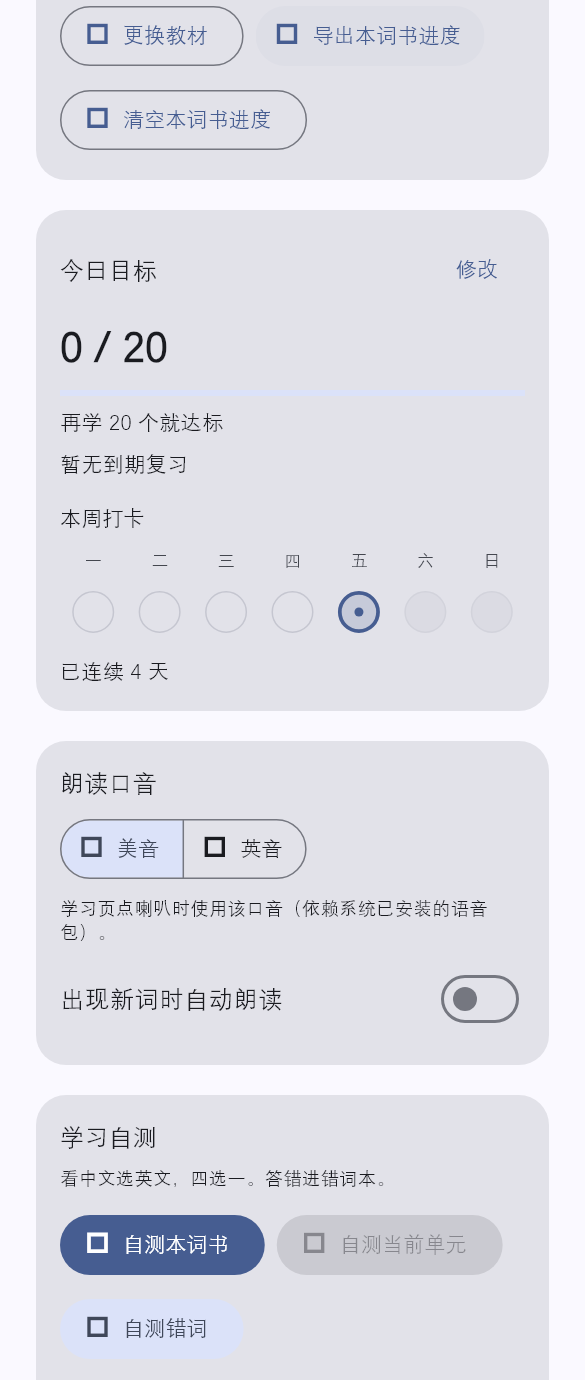
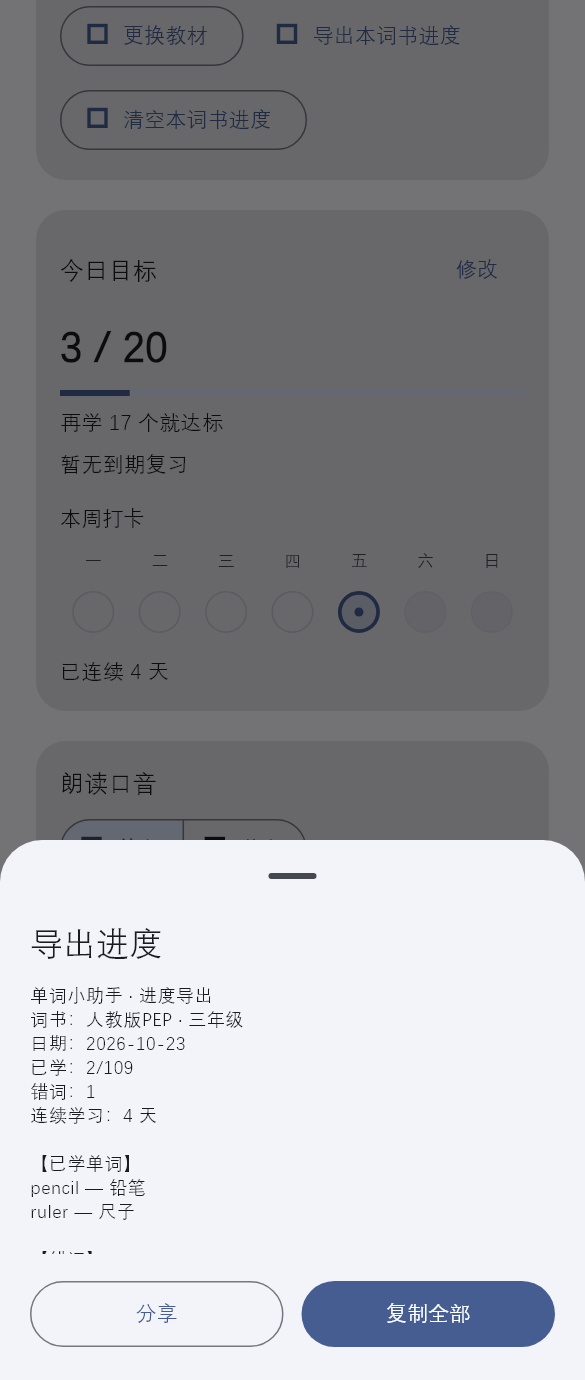
fix: R28 补交导出预览 sheet 截图（含复制 SnackBar）
Shot root 改为包住 navigator overlay；去掉预览 monospace 以免 CJK 方块；
sheet 可滚动并 settle 后再截。requirements 改回待 UI 验收。

diff --git a/test/r28_export_shot_test.dart b/test/r28_export_shot_test.dart
@@ -31,12 +31,22 @@ void main() {
     if (update) await loadCjkFont();
   });
 
-  Future<void> capture(
+  void mockClipboard() {
+    TestDefaultBinaryMessengerBinding.instance.defaultBinaryMessenger.setMockMethodCallHandler(
+      SystemChannels.platform,
+      (call) async {
+        if (call.method == 'Clipboard.setData') return null;
+        if (call.method == 'Clipboard.getData') return <String, dynamic>{'text': ''};
+        return null;
+      },
+    );
+  }
+
+  Future<void> pumpMe(
     WidgetTester tester, {
     required Size size,
     required ThemeData theme,
     required String outName,
-    required bool openSheet,
   }) async {
     SharedPreferences.setMockInitialValues({
       'selected_book_id': 'pep-ps-3',
@@ -45,6 +55,7 @@ void main() {
       'streak_days': 4,
       'daily_goal': 20,
       'today_count': 3,
+      'today_date': ProgressStore.dateKey(DateTime.now()),
     });
     tester.view.physicalSize = size;
     tester.view.devicePixelRatio = 1.0;
@@ -55,25 +66,27 @@ void main() {
     await tester.pump();
 
     final store = await ProgressStore.open();
+    // builder wraps navigator (incl. modal routes) inside RepaintBoundary
     await tester.pumpWidget(
       MaterialApp(
         key: ValueKey('app_$outName'),
         theme: withCjk(theme),
-        home: RepaintBoundary(
+        builder: (context, child) => RepaintBoundary(
           key: const ValueKey('shot_root'),
-          child: Scaffold(
-            body: MeScreen(
-              key: ValueKey('me_$outName'),
-              store: store,
-              repo: WordbookRepository(),
-              onRefresh: () {},
-              onChangeBook: () {},
-              onReviewWrong: () {},
-              onReviewWrongCurrentUnit: () {},
-              onQuizBook: () {},
-              onQuizUnit: () {},
-              onQuizWrong: () {},
-            ),
+          child: child ?? const SizedBox.shrink(),
+        ),
+        home: Scaffold(
+          body: MeScreen(
+            key: ValueKey('me_$outName'),
+            store: store,
+            repo: WordbookRepository(),
+            onRefresh: () {},
+            onChangeBook: () {},
+            onReviewWrong: () {},
+            onReviewWrongCurrentUnit: () {},
+            onQuizBook: () {},
+            onQuizUnit: () {},
+            onQuizWrong: () {},
           ),
         ),
       ),
@@ -84,14 +97,9 @@ void main() {
     expect(find.byKey(const ValueKey('export_progress')), findsOneWidget);
     await tester.ensureVisible(find.byKey(const ValueKey('export_progress')));
     await tester.pump();
+  }
 
-    if (openSheet) {
-      await tester.tap(find.byKey(const ValueKey('export_progress')));
-      await tester.pump();
-      await tester.pump(const Duration(milliseconds: 500));
-      expect(find.text('导出进度'), findsOneWidget);
-    }
-
+  Future<void> saveShot(WidgetTester tester, String outName) async {
     await tester.runAsync(() async {
       final boundary =
           tester.renderObject(find.byKey(const ValueKey('shot_root'))) as RenderRepaintBoundary;
@@ -103,16 +111,65 @@ void main() {
     });
   }
 
+  Future<void> openExportSheet(WidgetTester tester) async {
+    await tester.tap(find.byKey(const ValueKey('export_progress')));
+    await tester.pump(); // start async load
+    // wait until sheet title appears, then settle animation
+    for (var i = 0; i < 60; i++) {
+      await tester.pump(const Duration(milliseconds: 50));
+      if (find.text('导出进度').evaluate().isNotEmpty) break;
+    }
+    expect(find.text('导出进度'), findsOneWidget);
+    await tester.pumpAndSettle(const Duration(milliseconds: 100));
+    expect(find.byKey(const ValueKey('export_preview')), findsOneWidget);
+    expect(find.text('复制全部'), findsOneWidget);
+    expect(find.text('分享'), findsOneWidget);
+    await tester.ensureVisible(find.byKey(const ValueKey('export_copy')));
+    await tester.pumpAndSettle();
+  }
+
   testWidgets(
     'capture r28 export screenshots',
     (tester) async {
-      await capture(tester, size: const Size(390, 920), theme: AppTheme.light(), outName: 'r28-export-narrow-light.png', openSheet: true);
-      await capture(tester, size: const Size(390, 920), theme: AppTheme.dark(), outName: 'r28-export-narrow-dark.png', openSheet: true);
-      await capture(tester, size: const Size(1000, 920), theme: AppTheme.light(), outName: 'r28-export-wide-light.png', openSheet: true);
-      await capture(tester, size: const Size(1000, 920), theme: AppTheme.dark(), outName: 'r28-export-wide-dark.png', openSheet: true);
-      await capture(tester, size: const Size(390, 920), theme: AppTheme.light(), outName: 'r28-me-button-narrow-light.png', openSheet: false);
+      await pumpMe(
+        tester,
+        size: const Size(390, 920),
+        theme: AppTheme.light(),
+        outName: 'r28-me-button-narrow-light.png',
+      );
+      await saveShot(tester, 'r28-me-button-narrow-light.png');
+
+      for (final cfg in [
+        (const Size(390, 920), AppTheme.light(), 'r28-export-narrow-light.png'),
+        (const Size(390, 920), AppTheme.dark(), 'r28-export-narrow-dark.png'),
+        (const Size(1000, 920), AppTheme.light(), 'r28-export-wide-light.png'),
+        (const Size(1000, 920), AppTheme.dark(), 'r28-export-wide-dark.png'),
+      ]) {
+        await pumpMe(tester, size: cfg.$1, theme: cfg.$2, outName: cfg.$3);
+        await openExportSheet(tester);
+        await saveShot(tester, cfg.$3);
+      }
+
+      mockClipboard();
+      await pumpMe(
+        tester,
+        size: const Size(390, 920),
+        theme: AppTheme.light(),
+        outName: 'r28-export-copy-snackbar.png',
+      );
+      await openExportSheet(tester);
+      await tester.ensureVisible(find.byKey(const ValueKey('export_copy')));
+      await tester.tap(find.byKey(const ValueKey('export_copy')));
+      await tester.pump();
+      for (var i = 0; i < 40; i++) {
+        await tester.pump(const Duration(milliseconds: 50));
+        if (find.text('已复制到剪贴板').evaluate().isNotEmpty) break;
+      }
+      expect(find.text('已复制到剪贴板'), findsOneWidget);
+      await tester.pump(const Duration(milliseconds: 300));
+      await saveShot(tester, 'r28-export-copy-snackbar.png');
     },
     skip: !update,
-    timeout: const Timeout(Duration(minutes: 4)),
+    timeout: const Timeout(Duration(minutes: 5)),
   );
 }

diff --git a/lib/screens/me_screen.dart b/lib/screens/me_screen.dart
@@ -155,57 +155,60 @@ class _MeScreenState extends State<MeScreen> {
             bottom: MediaQuery.viewInsetsOf(ctx).bottom + 20,
           ),
           child: SafeArea(
-            child: Column(
-              mainAxisSize: MainAxisSize.min,
-              crossAxisAlignment: CrossAxisAlignment.stretch,
-              children: [
-                Text('导出进度', style: Theme.of(ctx).textTheme.titleLarge),
-                const SizedBox(height: 12),
-                ConstrainedBox(
-                  constraints: const BoxConstraints(maxHeight: 220),
-                  child: SingleChildScrollView(
-                    child: SelectableText(
-                      previewLines,
-                      style: Theme.of(ctx).textTheme.bodySmall?.copyWith(fontFamily: 'monospace'),
+            child: SingleChildScrollView(
+              child: Column(
+                mainAxisSize: MainAxisSize.min,
+                crossAxisAlignment: CrossAxisAlignment.stretch,
+                children: [
+                  Text('导出进度', style: Theme.of(ctx).textTheme.titleLarge),
+                  const SizedBox(height: 12),
+                  ConstrainedBox(
+                    constraints: const BoxConstraints(maxHeight: 180),
+                    child: SingleChildScrollView(
+                      child: SelectableText(
+                        previewLines,
+                        key: const ValueKey('export_preview'),
+                        style: Theme.of(ctx).textTheme.bodySmall,
+                      ),
                     ),
                   ),
-                ),
-                const SizedBox(height: 16),
-                Row(
-                  children: [
-                    Expanded(
-                      child: OutlinedButton(
-                        key: const ValueKey('export_share'),
-                        onPressed: () async {
-                          await SharePlus.instance.share(ShareParams(text: text, subject: '单词小助手 · 进度导出'));
-                        },
-                        child: const Padding(
-                          padding: EdgeInsets.symmetric(vertical: 12),
-                          child: Text('分享'),
+                  const SizedBox(height: 16),
+                  Row(
+                    children: [
+                      Expanded(
+                        child: OutlinedButton(
+                          key: const ValueKey('export_share'),
+                          onPressed: () async {
+                            await SharePlus.instance.share(ShareParams(text: text, subject: '单词小助手 · 进度导出'));
+                          },
+                          child: const Padding(
+                            padding: EdgeInsets.symmetric(vertical: 12),
+                            child: Text('分享'),
+                          ),
                         ),
                       ),
-                    ),
-                    const SizedBox(width: 12),
-                    Expanded(
-                      child: FilledButton(
-                        key: const ValueKey('export_copy'),
-                        onPressed: () async {
-                          await Clipboard.setData(ClipboardData(text: text));
-                          if (ctx.mounted) Navigator.pop(ctx);
-                          if (!mounted) return;
-                          ScaffoldMessenger.of(context).showSnackBar(
-                            const SnackBar(content: Text('已复制到剪贴板')),
-                          );
-                        },
-                        child: const Padding(
-                          padding: EdgeInsets.symmetric(vertical: 12),
-                          child: Text('复制全部'),
+                      const SizedBox(width: 12),
+                      Expanded(
+                        child: FilledButton(
+                          key: const ValueKey('export_copy'),
+                          onPressed: () async {
+                            await Clipboard.setData(ClipboardData(text: text));
+                            if (ctx.mounted) Navigator.pop(ctx);
+                            if (!mounted) return;
+                            ScaffoldMessenger.of(context).showSnackBar(
+                              const SnackBar(content: Text('已复制到剪贴板')),
+                            );
+                          },
+                          child: const Padding(
+                            padding: EdgeInsets.symmetric(vertical: 12),
+                            child: Text('复制全部'),
+                          ),
                         ),
                       ),
-                    ),
-                  ],
-                ),
-              ],
+                    ],
+                  ),
+                ],
+              ),
             ),
           ),
         );

diff --git a/docs/requirements.md b/docs/requirements.md
@@ -3,7 +3,7 @@
 ### Round 28 · 导出本词书已学进度（纯文本）
 
 **设计稿**：[docs/design-r28.md](design-r28.md)（必读后再开发）  
-**状态**：**代码完成 · 待 UI 验收**（`docs/shots/r28-ui-acceptance.md` + `r28-export-*.png`）
+**状态**：**UI 打回**（2026-10-23 · 缺导出预览截图）（`docs/shots/r28-ui-acceptance.md`）
 
 **用户故事**  
 作为家长，想把孩子当前词书的已学/错词进度复制出来发给老师或存档。
@@ -13,7 +13,7 @@
 - [x] 我的页「导出本词书进度」；无书 disabled
 - [x] 生成 UTF-8 纯文本（词书名、已学/总、错词、列表）
 - [x] 预览 + 复制全部；有则系统分享（share_plus）
-- [x] 单测拼装 + 四态截图；**待 UI 验收** `docs/shots/r28-ui-acceptance.md`
+- [ ] 单测拼装已有；**UI 打回**：补预览 sheet 截图（见 `r28-ui-acceptance.md` 改点）
 
 **范围（不做）**
 
@@ -35,7 +35,7 @@
 | R25 | 体验跃迁：学习页呼吸感与反馈 | [design-r25.md](design-r25.md) | **已完成** |
 | R26 | 自测变体「拼写默写」 | [design-r26.md](design-r26.md) | **已完成** |
 | R27 | 词书样板扩充 pep-ps-4 | [design-r27.md](design-r27.md) | **已完成** |
-| R28 | 导出本词书已学进度 | [design-r28.md](design-r28.md) | **代码完成 · 待 UI 验收** |
+| R28 | 导出本词书已学进度 | [design-r28.md](design-r28.md) | **待 UI 验收**（已补预览 sheet 截图 · 2026-10-23） |
 
 ---
 
@@ -271,6 +271,8 @@
 | 2026-10-23 | **UI 预置**：R28 
 28-ui-acceptance.md；剩余 P2 清单 me-quiz-copy / me-disabled / accent-tts |
 | 2026-10-23 | **R28 升进行中**：导出进度纯文本；R27 UI 通过收口 |
+| 2026-10-23 | **R28 UI 打回**：入口可见；缺导出预览 sheet（复制/分享）截图 |
+| 2026-10-23 | **R28 补截图**：预览 sheet 窄/宽×浅/深 + 复制 SnackBar；状态改回待 UI 验收 |
 | 2026-10-23 | 插队：自测结束页对齐 §8 落地；四态截图交验 |
 | 2026-10-23 | 插队：搜索「已经是这本」 SnackBar 落地 |
 | 2026-10-23 | 插队：认识/不认识 scale 0.98 落地 |

diff --git a/docs/shots/r28-ui-acceptance.md b/docs/shots/r28-ui-acceptance.md
@@ -1,30 +1,32 @@
 # Round 28 · 导出本词书已学进度 · UI 验收
 
-**对应**：`docs/design-r28.md`
-**对照**：ux-guidelines §8/§9
-**截图前缀**：r28-
+**对应**：`docs/design-r28.md`  
+**对照**：ux-guidelines §8/§9  
+**截图前缀**：`r28-`
 
 ## 环境（须附截图）
 
-- [x] 窄窗 ≤400 · 浅色 导出预览 → `r28-export-narrow-light.png`
-- [x] 窄窗 ≤400 · 深色 导出预览 → `r28-export-narrow-dark.png`
-- [x] 宽窗 ≥900 · 浅色 → `r28-export-wide-light.png`
-- [x] 宽窗 ≥900 · 深色 → `r28-export-wide-dark.png`
-- [x] 入口按钮（我的页） → `r28-me-button-narrow-light.png`
+- [x] 我的页入口（浅色窄窗）→ `r28-me-button-narrow-light.png`（可见「导出本词书进度」，弱于清空）
+- [x] 窄窗 · 浅色 **导出预览** → `r28-export-narrow-light.png`（见预览正文 +「复制全部」+「分享」）
+- [x] 窄窗 · 深色 **导出预览** → `r28-export-narrow-dark.png`
+- [x] 宽窗 · 浅色 **导出预览** → `r28-export-wide-light.png`
+- [x] 宽窗 · 深色 **导出预览** → `r28-export-wide-dark.png`
+- [x] 复制成功 SnackBar → `r28-export-copy-snackbar.png`（「已复制到剪贴板」）
 
 ## 要点
 
-- [x] 有书可导出、无书 disabled
-- [x] 预览 + 复制全部 + 分享
-- [x] 文案口语、深浅色可读、无新 Banner
+- [x] 入口文案「导出本词书进度」在我的页；与更换教材并列、清空仍在
+- [x] 预览 sheet：前若干行正文 +「复制全部」+「分享」
+- [x] 复制成功 SnackBar「已复制到剪贴板」
+- [x] 无新 Banner；入口深浅色可读
 
 ## 不做
 
-- 云同步 / PDF / Excel / 账号墙
+- [x] 云同步 / PDF / Excel / 账号墙（未见违规入口）
 
 ## 设计师结论
 
-- 结论：（通过 / 打回）
+- 结论：（待 UI 验收）
 - 日期：
 - 验收人：单词UI设计
-- 备注：
+- 备注：2026-10-23 补交预览态四窗 + 复制 SnackBar；入口图保留。打回项已修，请重验。
